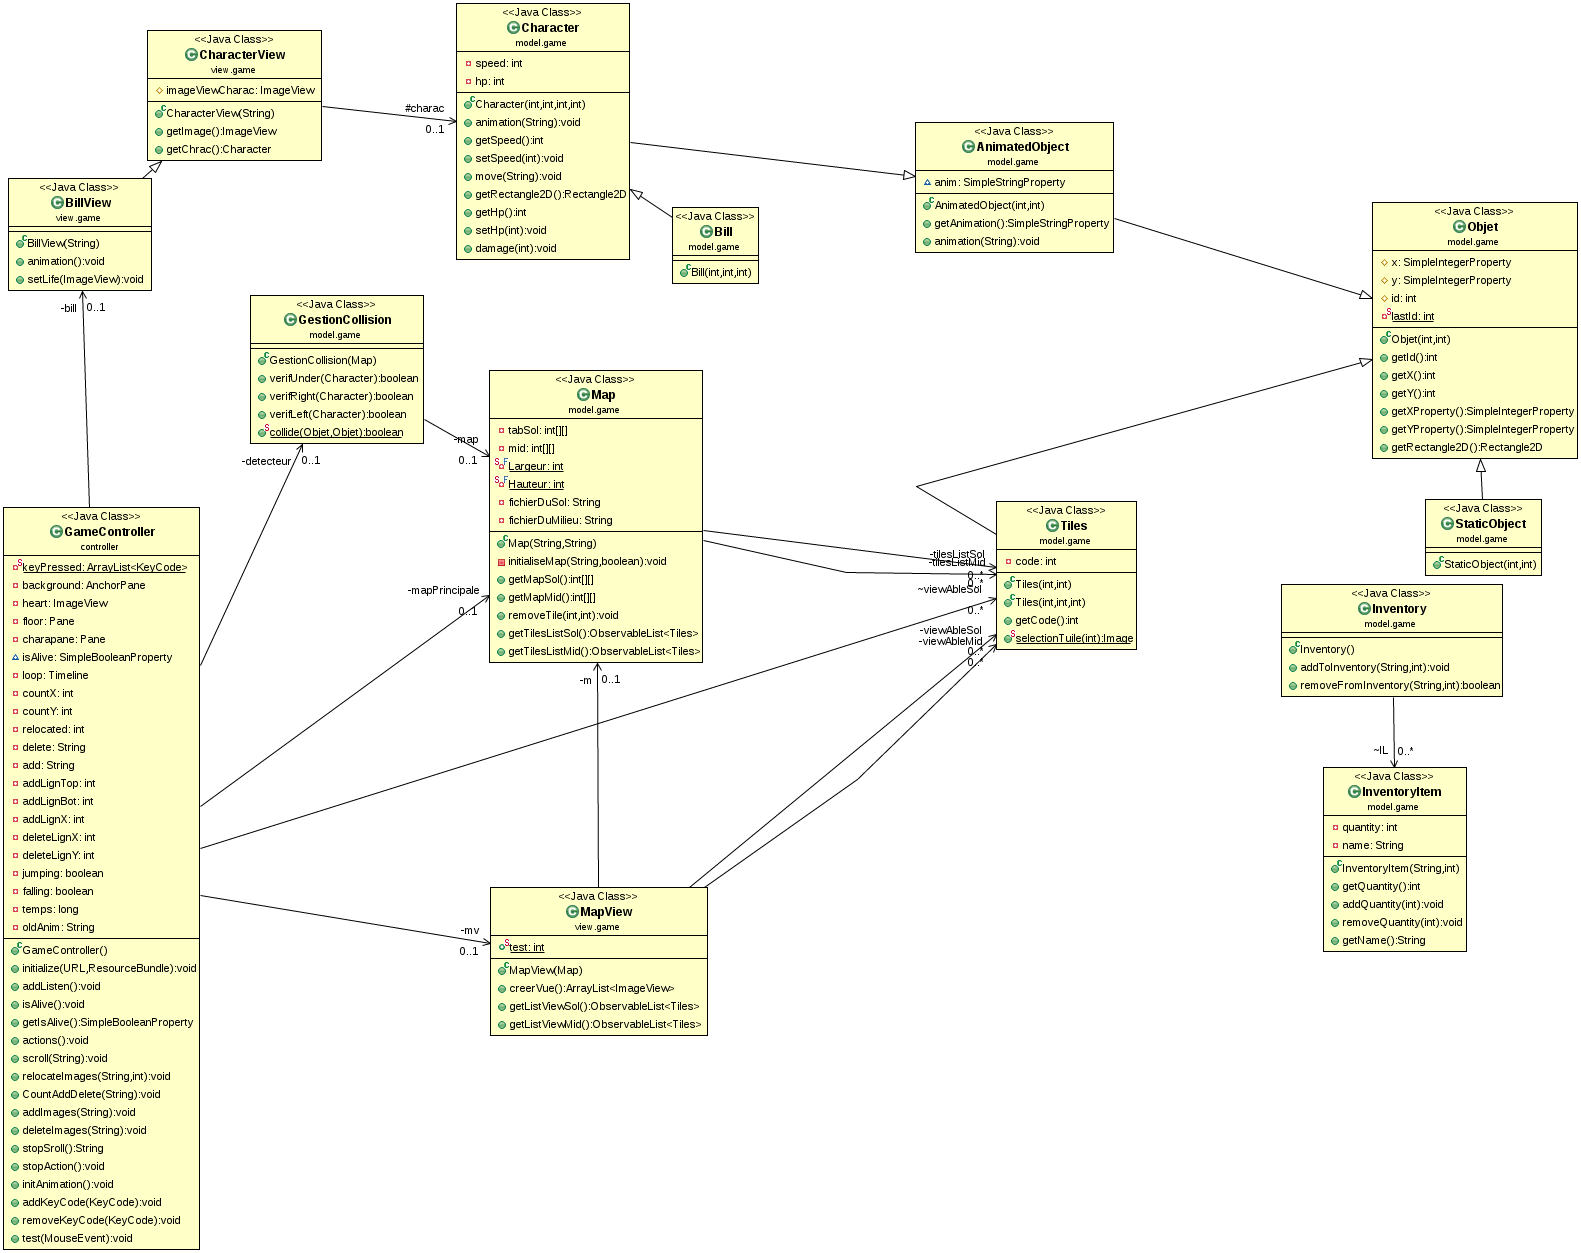
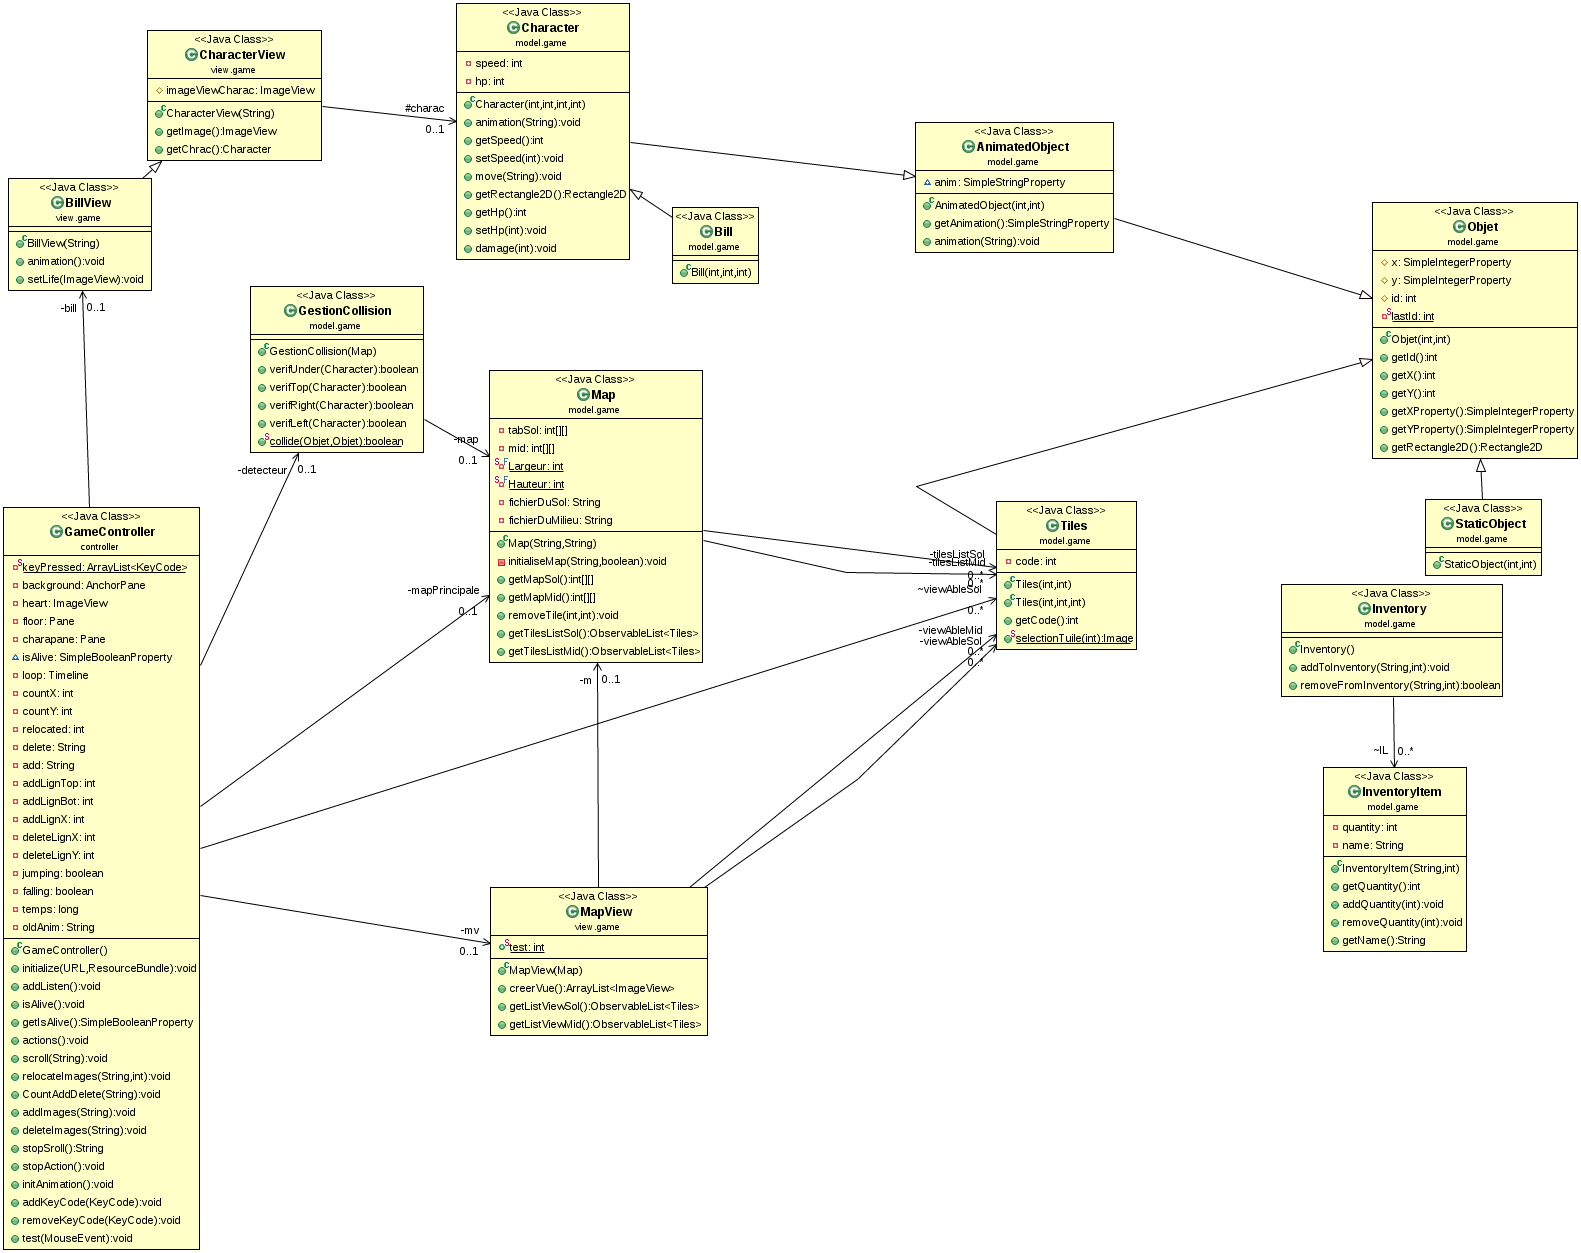
minage + poser bloc

Changed region(s): [[0.155, 0.2179, 0.2789, 0.4046], [0.5889, 0.498, 0.6199, 0.5291]]

diff --git a/src/controller/GameController.java b/src/controller/GameController.java
@@ -142,12 +142,41 @@ public class GameController extends Controller {
 							for( Node t : c.getRemoved()) {
 								if(t instanceof TileView) {
 									ObservableList<Tiles> ListSol = mapPrincipale.getTilesListSol();
+									ObservableList<Tiles> ListMid = mapPrincipale.getTilesListMid();
 									int[][] tabSol = mapPrincipale.getMapSol();
+									int[][] tabMid = mapPrincipale.getMapMid();
  									TileView tView = (TileView)t;
  									Tiles tile = tView.getTile();
 									ListSol.remove(tile);
+									viewAbleSol.remove(tile);
 									tabSol[tile.getX()][tile.getY()]=0;
+									/*if(tabMid[tile.getX()][tile.getY()]!=0) {
+										for(Tiles tileMid : ListMid) {
+											if (tileMid.getX() == tile.getX() && tileMid.getY() == tile.getY()) {
+												TileView tv = new TileView(tileMid);
+												tv.relocate(tileMid.getX()*32, tileMid.getY() * 32);
+												floor.getChildren().add(tv);
+											}
+										}
+										
+										
+									}*/
 									
+								}
+							}
+						}
+					}
+					if(c.wasAdded()) {
+						if(add == "mouse") {
+							for( Node t : c.getAddedSubList()) {
+								if(t instanceof TileView) {
+									ObservableList<Tiles> ListSol = mapPrincipale.getTilesListSol();
+ 									TileView tView = (TileView)t;
+ 									Tiles tile = tView.getTile();
+									ListSol.add(tile);
+									//viewAbleSol.add(tile);
+									System.out.println(tile.getX()+"  "+tile.getY());
+									mapPrincipale.setTileSol(tile.getX(), tile.getY(), 1);
 								}
 							}
 						}
@@ -190,7 +219,7 @@ public class GameController extends Controller {
 			scroll("Left");
 
 		}
-		if (!jumping && keyPressed.contains(KeyCode.SPACE)) {
+		if (!jumping && keyPressed.contains(KeyCode.SPACE) && detecteur.verifTop(bill.getChrac())) {
 			bill.getChrac().animation(oldAnim.contains("Right") ? "jumpRight" : "jumpLeft");
 			oldAnim = oldAnim.contains("Right") ? "jumpRight" : "jumpLeft";
 			scroll("Up");
@@ -484,13 +513,12 @@ public class GameController extends Controller {
 		temps = 0;
 		loop.setCycleCount(Timeline.INDEFINITE);
 		KeyFrame kf = new KeyFrame(Duration.millis(25), (ev -> {
-
 			if (temps % 40 == 0 && bill.getChrac().getHp() > 0) {
 				// bill.getChrac().damage(2);
 				// System.out.println(bill.getChrac().getHp());
 				isAlive();
 			}
-			if (jumping && !falling && temps != 19) {
+			if (jumping && !falling && temps != 19 && detecteur.verifTop(bill.getChrac())) {
 				scroll("Up");
 				temps++;
 			} else if (detecteur.verifUnder(bill.getChrac())) {
@@ -516,8 +544,15 @@ public class GameController extends Controller {
 	}
 	public void test(javafx.scene.input.MouseEvent k) {
 		delete="mouse";
+		add="mouse";
 		if(k.isPrimaryButtonDown())
 			floor.getChildren().removeIf(img -> img.getLayoutY() >= k.getY()-32 && img.getLayoutY() < k.getY() && img.getLayoutX() >= k.getX()-32 && img.getLayoutX() < k.getX());
+		if(k.isSecondaryButtonDown()) {
+			Tiles t = new Tiles ((int)k.getX()/32,(int)k.getY()/32,1);
+			TileView tv = new TileView(t);
+			tv.relocate(t.getX()*32, t.getY() * 32-4);
+			floor.getChildren().add(tv);
+			}
 		/*case "mouse":
 								ObservableList<Tiles> ListSol = mapPrincipale.getTilesListSol();
 								int[][] tabSol = mapPrincipale.getMapSol();

diff --git a/src/model/game/GestionCollision.java b/src/model/game/GestionCollision.java
@@ -28,6 +28,17 @@ public class GestionCollision {
 		// System.out.println(ch.getX() +"\t"+ch.getY());
 		return (map.getMapSol()[ch.getX() - 1][ch.getY() + 2] == 0 && map.getMapSol()[ch.getX()][ch.getY() + 2] == 0);
 	}
+	
+	/**
+	 * 
+	 * @param ch
+	 *            personnage
+	 * @return true si il y a rien au dessus du personnage.
+	 */
+	public boolean verifTop(Character ch) {
+		// System.out.println(ch.getX() +"\t"+ch.getY());
+		return (map.getMapSol()[ch.getX()-1][ch.getY() +1] == 0 && map.getMapSol()[ch.getX()-1][ch.getY() ] == 0);
+	}
 
 	/**
 	 * 
@@ -46,7 +57,7 @@ public class GestionCollision {
 	public boolean verifLeft(Character ch) {
 		return (map.getMapSol()[ch.getX() - 1][ch.getY()] == 0 && map.getMapSol()[ch.getX() - 1][ch.getY() + 1] == 0);
 	}
-
+	
 	public static boolean collide(Objet environnement, Objet character) {
 		return environnement.getRectangle2D().intersects(character.getRectangle2D());
 	}

diff --git a/src/model/game/Map.java b/src/model/game/Map.java
@@ -92,6 +92,10 @@ public class Map {
 	 public void removeTile(int x , int y) {
 		 this.tabSol[x][y]=0;
 	 }
+	 public void setTileSol(int x , int y, int value) {
+		 this.tabSol[x][y]=value;
+	 }
+	 
 
 	public ObservableList<Tiles> getTilesListSol() {
 		return tilesListSol;
